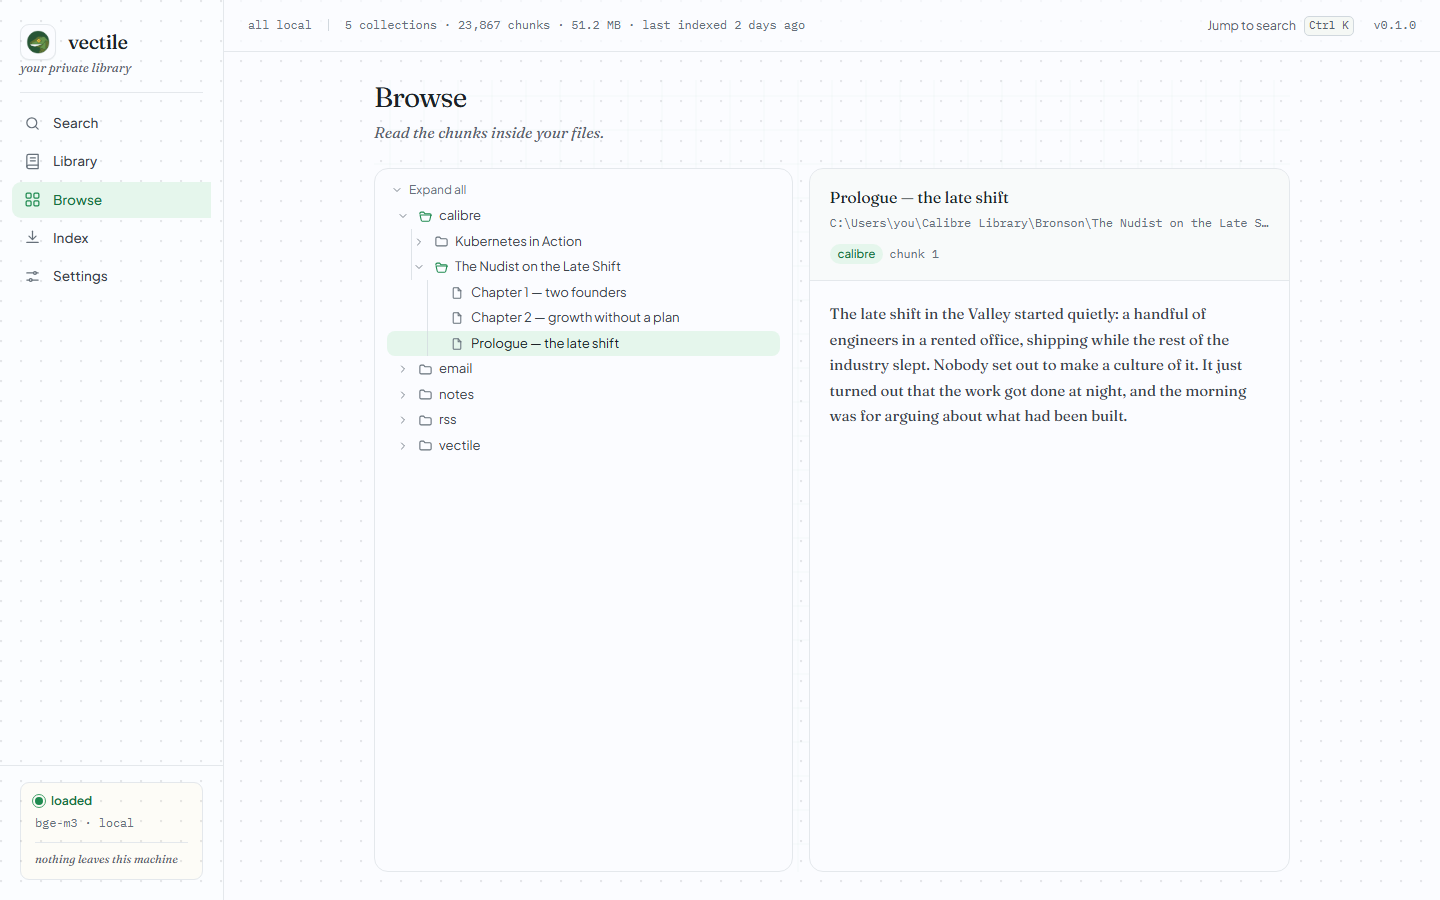
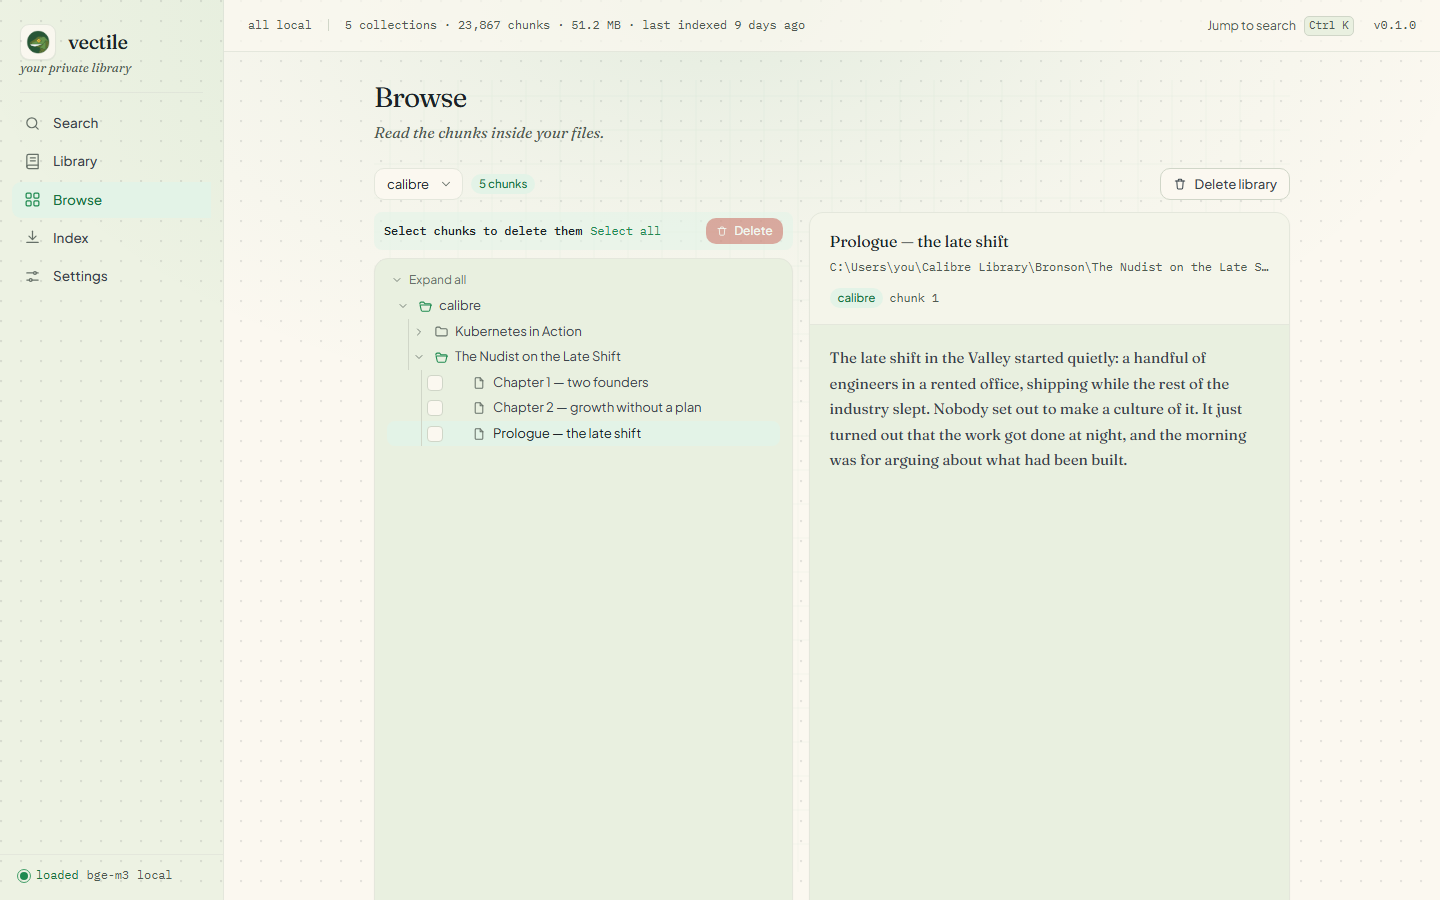
feat: add Vexter mascot settings and update configuration for sidebar interactions

diff --git a/README.md b/README.md
@@ -47,6 +47,10 @@ Screenshots show sample data.
   </tr>
 </table>
 
+<p align="center">
+  <img src="docs/screenshots/settings-mascot.png" alt="Settings → Vexter: show the sidebar mascot while searching, indexing, or on no results" width="100%">
+</p>
+
 ## Supported sources
 
 | Source | Collection Type | What Gets Indexed |
@@ -94,12 +98,14 @@ On a fresh install, a short tour walks you through it: add a folder, index it, t
 Five views, keyboard-first:
 
 - **Search** (home): a large search bar, a filter row, and results as cards with title, snippet, rank, collection, and source path. Expand a card to read the whole passage, open the file, or reveal it in the file manager. A small toggle switches each result between its rank (#1) and the blended score (%). Jump in from anywhere with ⌘K / Ctrl K.
-- **Library**: every collection with its file and chunk counts and the last time it was indexed; expand one to list its files.
-- **Browse**: a file tree of collections, files, and chunks, with a preview pane.
+- **Library**: every collection with its file and chunk counts and the last time it was indexed; expand one to list its files, and remove a source or its documents in place.
+- **Browse**: a file tree of collections, files, and chunks, with a preview pane. Select chunks to delete them, or remove a whole library.
 - **Index**: run "Index new" (only changed files) or "Re-index all" (re-embed everything) per collection, or index all collections at once, with live progress.
-- **Settings**: sources, model, chunking, search defaults, auto-reindex, start-on-login, and a Connect section that runs a local MCP server for AI assistants.
+- **Settings**: sources, model, chunking, search defaults, auto-reindex, start-on-login, Vexter (the sidebar mascot), and a Connect section that runs a local MCP server for AI assistants.
 
 The sidebar shows the model state: idle, loaded, or failed. If the model file is missing or corrupt, vector search falls back to full-text search, so exact-word matches still work.
+
+A little pixel dinosaur called **Vexter** lives in the sidebar and pokes up while your library works — while a query runs, while it indexes, and when a search comes up empty. It's purely decorative, and Settings → Vexter lets you turn each of those moments on or off independently.
 
 Files you delete get pruned automatically, so results don't go stale. Auto-reindex, if enabled, re-indexes everything on a timer. Start-on-login launches the app with your session. The status strip shows when the library was last indexed; when auto-reindex is off and that date is more than a day old, Search quietly suggests a re-index.
 
@@ -147,6 +153,9 @@ Config file: `<os.UserConfigDir()>/vectile/config.json`
 | gui.auto_reindex | false | Enable periodic re-indexing |
 | gui.auto_reindex_interval_minutes | 60 | Minutes between auto-reindex runs |
 | gui.start_on_login | false | Launch at login |
+| gui.mascot.show_searching | true | Show Vexter in the sidebar while a query runs |
+| gui.mascot.show_indexing | true | Show Vexter while a library rebuilds |
+| gui.mascot.show_nothing | true | Show Vexter when a search comes up empty |
 | mcp.enabled | false | Serve read-only MCP search tools to local AI assistants on launch |
 | mcp.port | 31123 | Port the MCP server listens on (127.0.0.1 only) |
 
